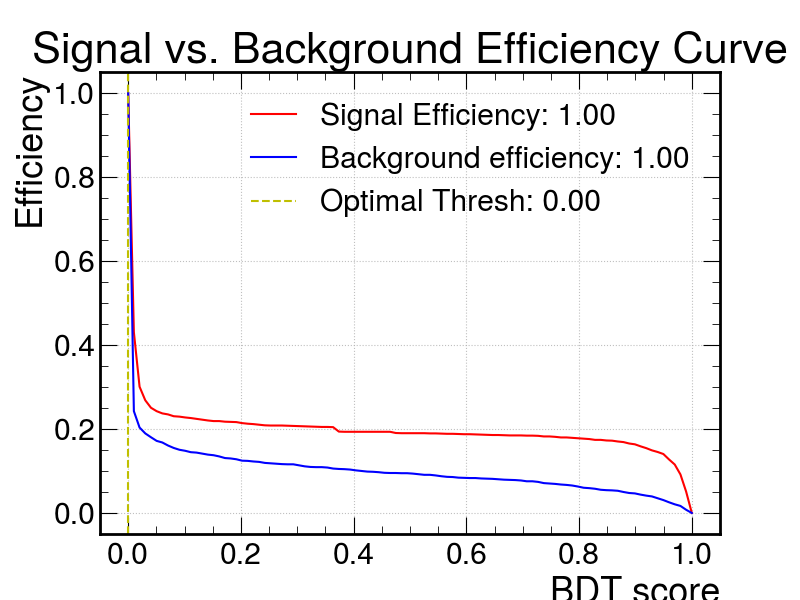
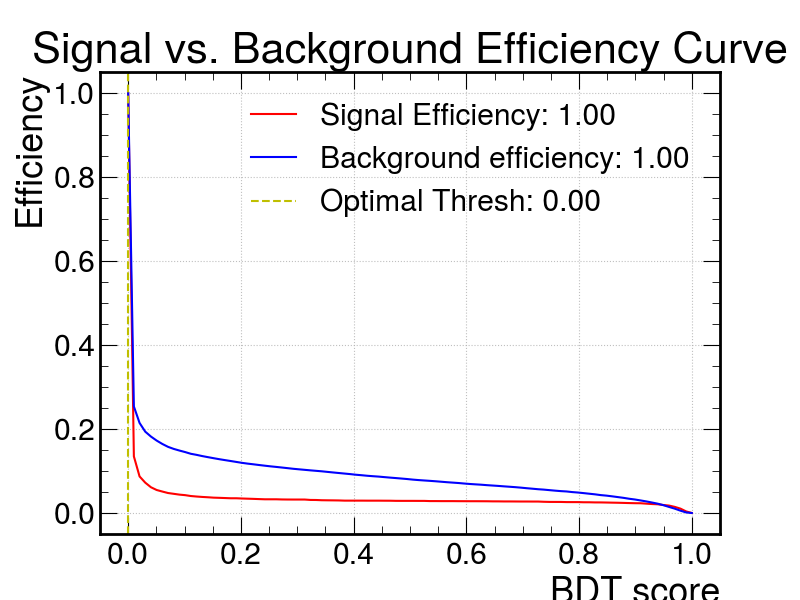
finishing the commit, pre new project

diff --git a/configs/bdt_application.py b/configs/bdt_application.py
@@ -19,7 +19,7 @@ from sklearn.model_selection import StratifiedKFold, KFold, train_test_split
 
 def main(args):
 
-    with uproot.open(f"ALP_DP2_m{args.mass}_{args.process}_ntuple.root") as f:
+    with uproot.open(f"ALP_DP2_m{args.mass}_{args.process}4_ntuple.root") as f:
         signal = f['Features'].arrays(library='pd')
         num_signal = len(signal)
 
@@ -29,9 +29,9 @@ def main(args):
     processes = ['prima']
     chosen_coup = {'processes' : processes }
     chosen_coup[50] = 1e-4
-    chosen_coup[100] = 1.6e-5
+    chosen_coup[100] = 2e-5
     chosen_coup[200] = 1.8e-5
-    chosen_coup[300] = 2.1e-5
+    chosen_coup[300] = 2e-5
     chosen_coup[400] = 2.7e-5
     chosen_coup[500] = 3.1e-5
 
@@ -53,7 +53,7 @@ def main(args):
     features = data.columns
     features = features.drop(['ZAv','XYAv','XYWidth',  'isSignal',
                               'e_NHits', 'e_ZLength', 'e_ZAverage_w', 'e_ZWidth_w', 'e_ZAv',
-                              'e_ZWidth', 'e_XYAv', 'e_XYAv_w', 'e_XYWidth', 'e_XYWidth_w', 'e_EDensity', 'e_Eav', 'Label'])
+                              'e_ZWidth', 'e_XYAv', 'e_XYAv_w', 'e_XYWidth', 'e_XYWidth_w', 'e_EDensity', 'e_Eav', 'Label', 'Xs', 'Ys', 'Zs', 'Es'])
 
     data = pd.concat([bkgd, signal], ignore_index=True)
 

diff --git a/configs/bdtscore.py b/configs/bdtscore.py
@@ -26,7 +26,7 @@ from sklearn.model_selection import StratifiedKFold, KFold, train_test_split
 
 
 def main(args):
-    with uproot.open(f"ALP_DP2_m{args.mass}_{args.process}_ntuple.root") as f:
+    with uproot.open(f"ALP_DP2_m{args.mass}_{args.process}4_ntuple.root") as f:
         signal = f['Features'].arrays(library='pd')
         num_signal = len(signal)
 
@@ -69,7 +69,7 @@ def main(args):
     features = data.columns
     features = features.drop(['ZAv','XYAv','XYWidth',  'isSignal',
                               'e_NHits', 'e_ZLength', 'e_ZAverage_w', 'e_ZWidth_w', 'e_ZAv',
-                              'e_ZWidth', 'e_XYAv', 'e_XYAv_w', 'e_XYWidth', 'e_XYWidth_w', 'e_EDensity', 'e_Eav', 'Label'])
+                              'e_ZWidth', 'e_XYAv', 'e_XYAv_w', 'e_XYWidth', 'e_XYWidth_w', 'e_EDensity', 'e_Eav', 'Label', 'Ys', 'Xs', 'Zs', 'Es'])
 
     data = pd.concat([bkgd, signal], ignore_index=True)
 
